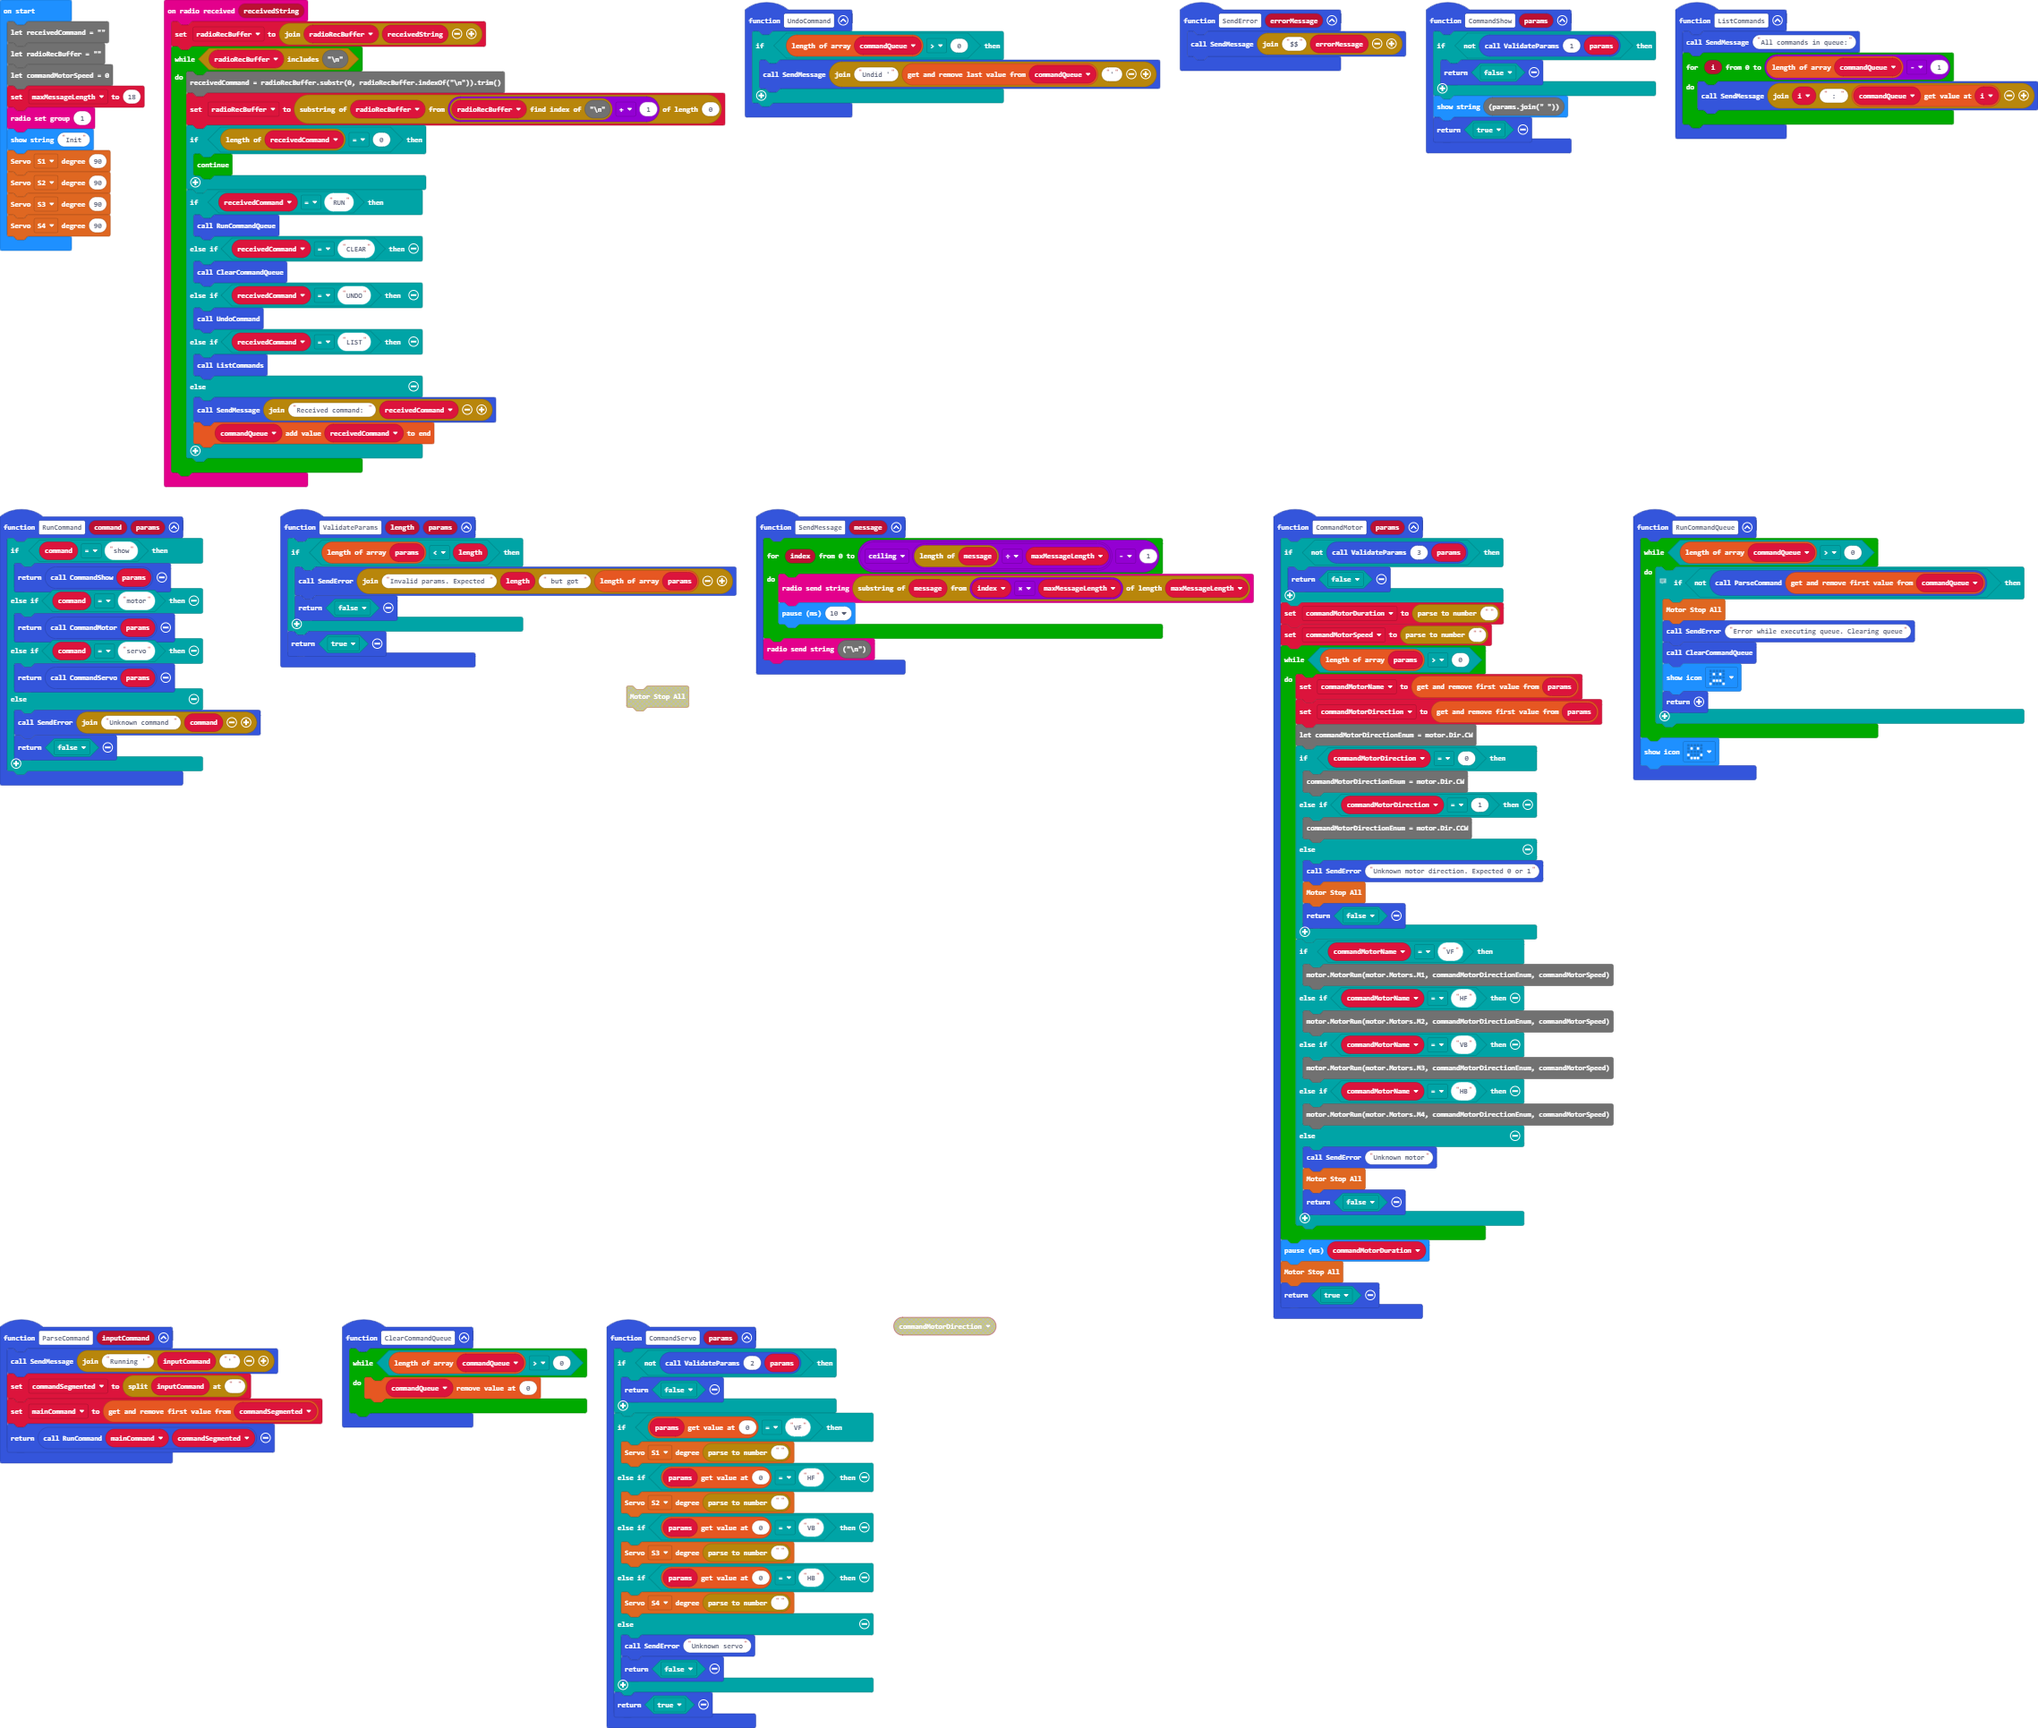
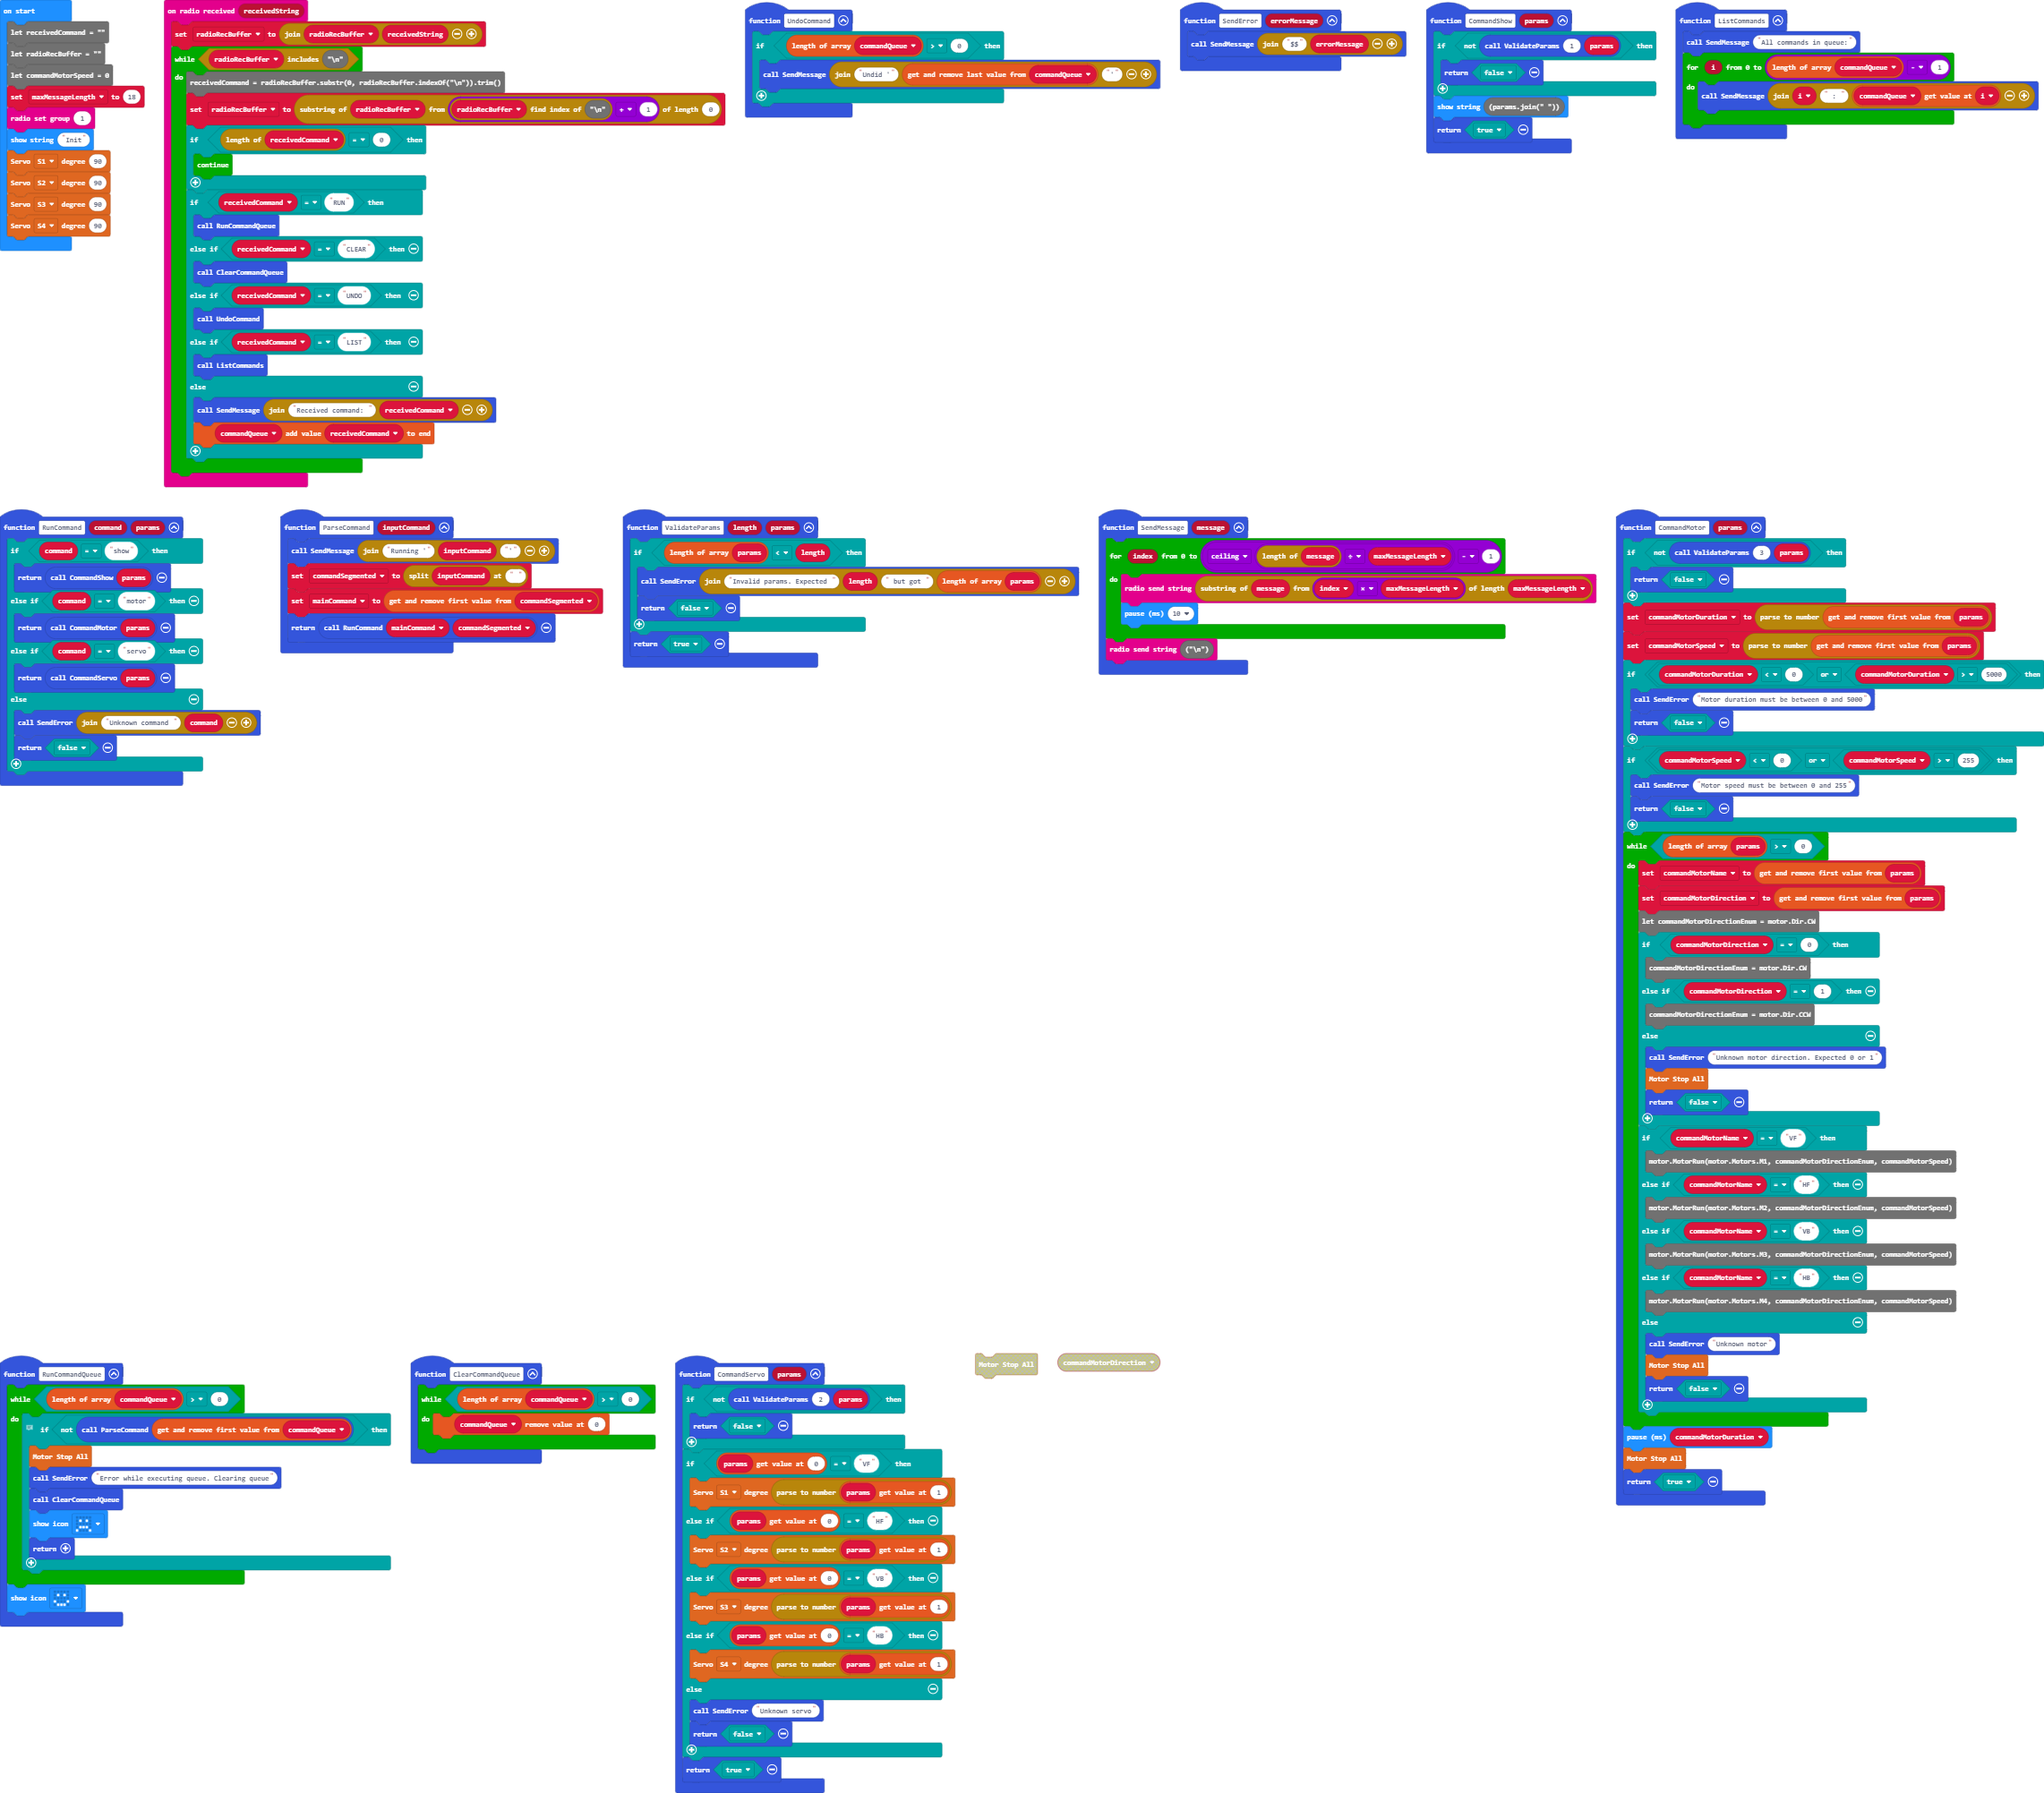
Add motor param limit checks

Changed region(s): [[0.0, 0.0, 1.0, 0.8389], [0.0, 0.7457, 0.5613, 1.0]]

diff --git a/main.ts b/main.ts
@@ -37,11 +37,19 @@ function CommandMotor (params: any[]) {
     }
     commandMotorDuration = parseFloat(params.shift())
     commandMotorSpeed = parseFloat(params.shift())
+    if (commandMotorDuration < 0 || commandMotorDuration > 5000) {
+        SendError("Motor duration must be between 0 and 5000")
+        return false
+    }
+    if (commandMotorSpeed < 0 || commandMotorSpeed > 255) {
+        SendError("Motor speed must be between 0 and 255")
+        return false
+    }
     while (params.length > 0) {
         commandMotorName = params.shift()
         commandMotorDirection = params.shift()
         let commandMotorDirectionEnum = motor.Dir.CW
-        if (commandMotorDirection == 0) {
+if (commandMotorDirection == 0) {
             commandMotorDirectionEnum = motor.Dir.CW
         } else if (commandMotorDirection == 1) {
             commandMotorDirectionEnum = motor.Dir.CCW
